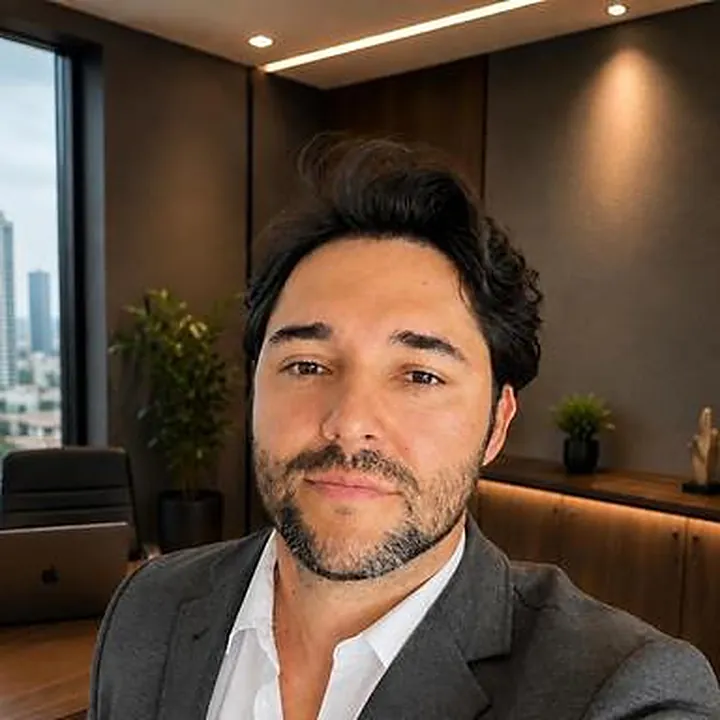
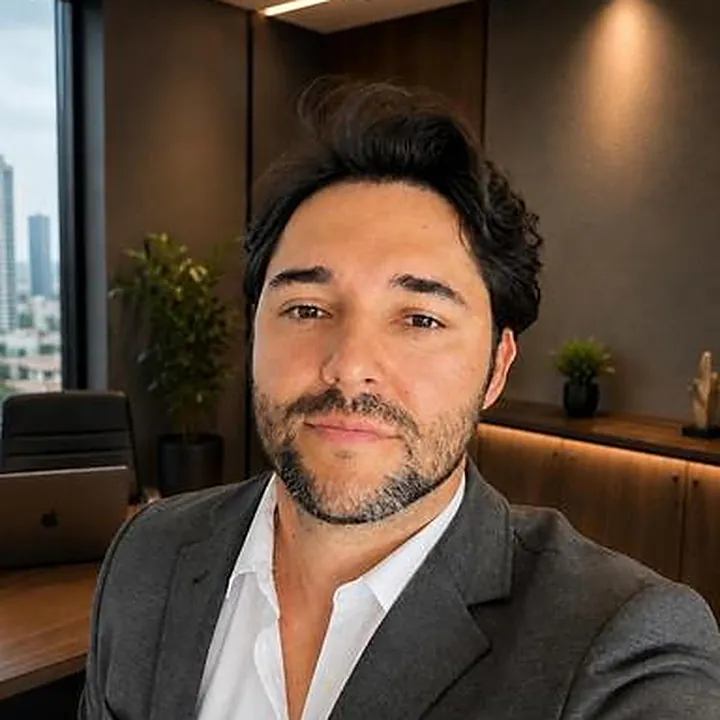
Reforce: rosto do Elias inteiro no cartão da liderança
O recorte quadrado da foto vertical do Elias pegava o topo da imagem e o
cartão 5:4 cortava de novo no queixo. Agora o recorte desce 30 px na foto
original (rosto e ombros), os cartões da liderança são quadrados, a sombra
fica só no pé da foto e o zoom de entrada é mais leve e centrado no rosto.

Claude-Session: https://claude.ai/code/session_01GQmGjxrmQj6X5Fpzt7nzHH

diff --git a/sites/reforce/src/components/Equipe.tsx b/sites/reforce/src/components/Equipe.tsx
@@ -17,16 +17,17 @@ export function Equipe() {
         <ul className="mt-14 grid gap-6 md:grid-cols-3">
           {lideranca.map((p) => (
             <li key={p.id} data-lider className="cartao group overflow-hidden">
-              <div className="relative aspect-[5/4] overflow-hidden">
+              {/* Quadrado: rosto e ombros inteiros; a sombra fica só no pé da foto, abaixo do queixo. */}
+              <div className="relative aspect-square overflow-hidden">
                 <Image
                   src={imagens[p.id]}
                   alt={`${p.nome}, ${p.cargo}`}
                   fill
                   sizes="(min-width: 768px) 30vw, 92vw"
                   quality={80}
-                  className="object-cover object-top transition-transform duration-[1.2s] ease-out-expo group-hover:scale-105"
+                  className="object-cover object-center transition-transform duration-[1.2s] ease-out-expo group-hover:scale-105"
                 />
-                <span className="absolute inset-0 bg-gradient-to-t from-[#04272c] via-transparent to-transparent" aria-hidden="true" />
+                <span className="absolute inset-x-0 bottom-0 h-1/5 bg-gradient-to-t from-[#04272c] to-transparent" aria-hidden="true" />
                 <span className="font-display absolute right-4 top-4 rounded-full bg-abismo/80 px-3 py-1.5 text-xs font-semibold text-white backdrop-blur">
                   +{p.anos} anos de experiência
                 </span>

diff --git a/sites/reforce/src/lib/motion.ts b/sites/reforce/src/lib/motion.ts
@@ -479,7 +479,7 @@ function equipe(limpezas: Limpezas) {
   $$("[data-lider]").forEach((l, i) => {
     gsap.fromTo(l, { clipPath: "inset(40% 0% 0% 0% round 1.75rem)", y: 120 + i * 40 }, { clipPath: "inset(0% 0% 0% 0% round 1.75rem)", y: 0, ease: "power2.out", scrollTrigger: entrada(l, "top 100%", "top 55%") });
     const img = $("img", l);
-    if (img) gsap.fromTo(img, { scale: 1.4 }, { scale: 1, ease: "none", scrollTrigger: { trigger: l, start: "top bottom", end: "bottom 40%", scrub: true } });
+    if (img) gsap.fromTo(img, { scale: 1.12, transformOrigin: "50% 35%" }, { scale: 1, ease: "none", scrollTrigger: { trigger: l, start: "top bottom", end: "bottom 40%", scrub: true } });
   });
   // Colunas da equipe em velocidades diferentes (paralaxe por coluna).
   const grade = $("[data-equipe-grade]");

diff --git a/sites/_fontes/reforce/scripts/preparar-imagens.py b/sites/_fontes/reforce/scripts/preparar-imagens.py
@@ -13,6 +13,10 @@ destino = sys.argv[1]
 os.makedirs(destino, exist_ok=True)
 
 
+# Quanto descer o recorte quadrado nos retratos verticais (px da foto original).
+DESCER = {"equipe-elias-mota": 30}
+
+
 def salvar(im, nome, q=80):
     im.save(os.path.join(destino, nome + ".webp"), "WEBP", quality=q, method=6)
 
@@ -31,10 +35,11 @@ for f in sorted(glob.glob(os.path.join(origem, "*.jpg"))):
     if nome.startswith("setor-"):
         salvar(ampliar(im, 1100), nome, 78)
     elif nome.startswith("equipe-"):
-        # quadrado centrado no rosto (os retratos já vêm enquadrados)
+        # quadrado centrado no rosto (os retratos já vêm enquadrados); nos verticais, desce um pouco
+        # o recorte quando a foto tem espaço acima da cabeça (ex.: Elias), para pegar rosto e ombros.
         lado = min(im.size)
         x = (im.width - lado) // 2
-        y = 0 if im.height > im.width else (im.height - lado) // 2
+        y = DESCER.get(nome, 0) if im.height > im.width else (im.height - lado) // 2
         im = im.crop((x, y, x + lado, y + lado))
         salvar(ampliar(im, 720), nome, 80)
     elif nome == "campo-construtibilidade":
